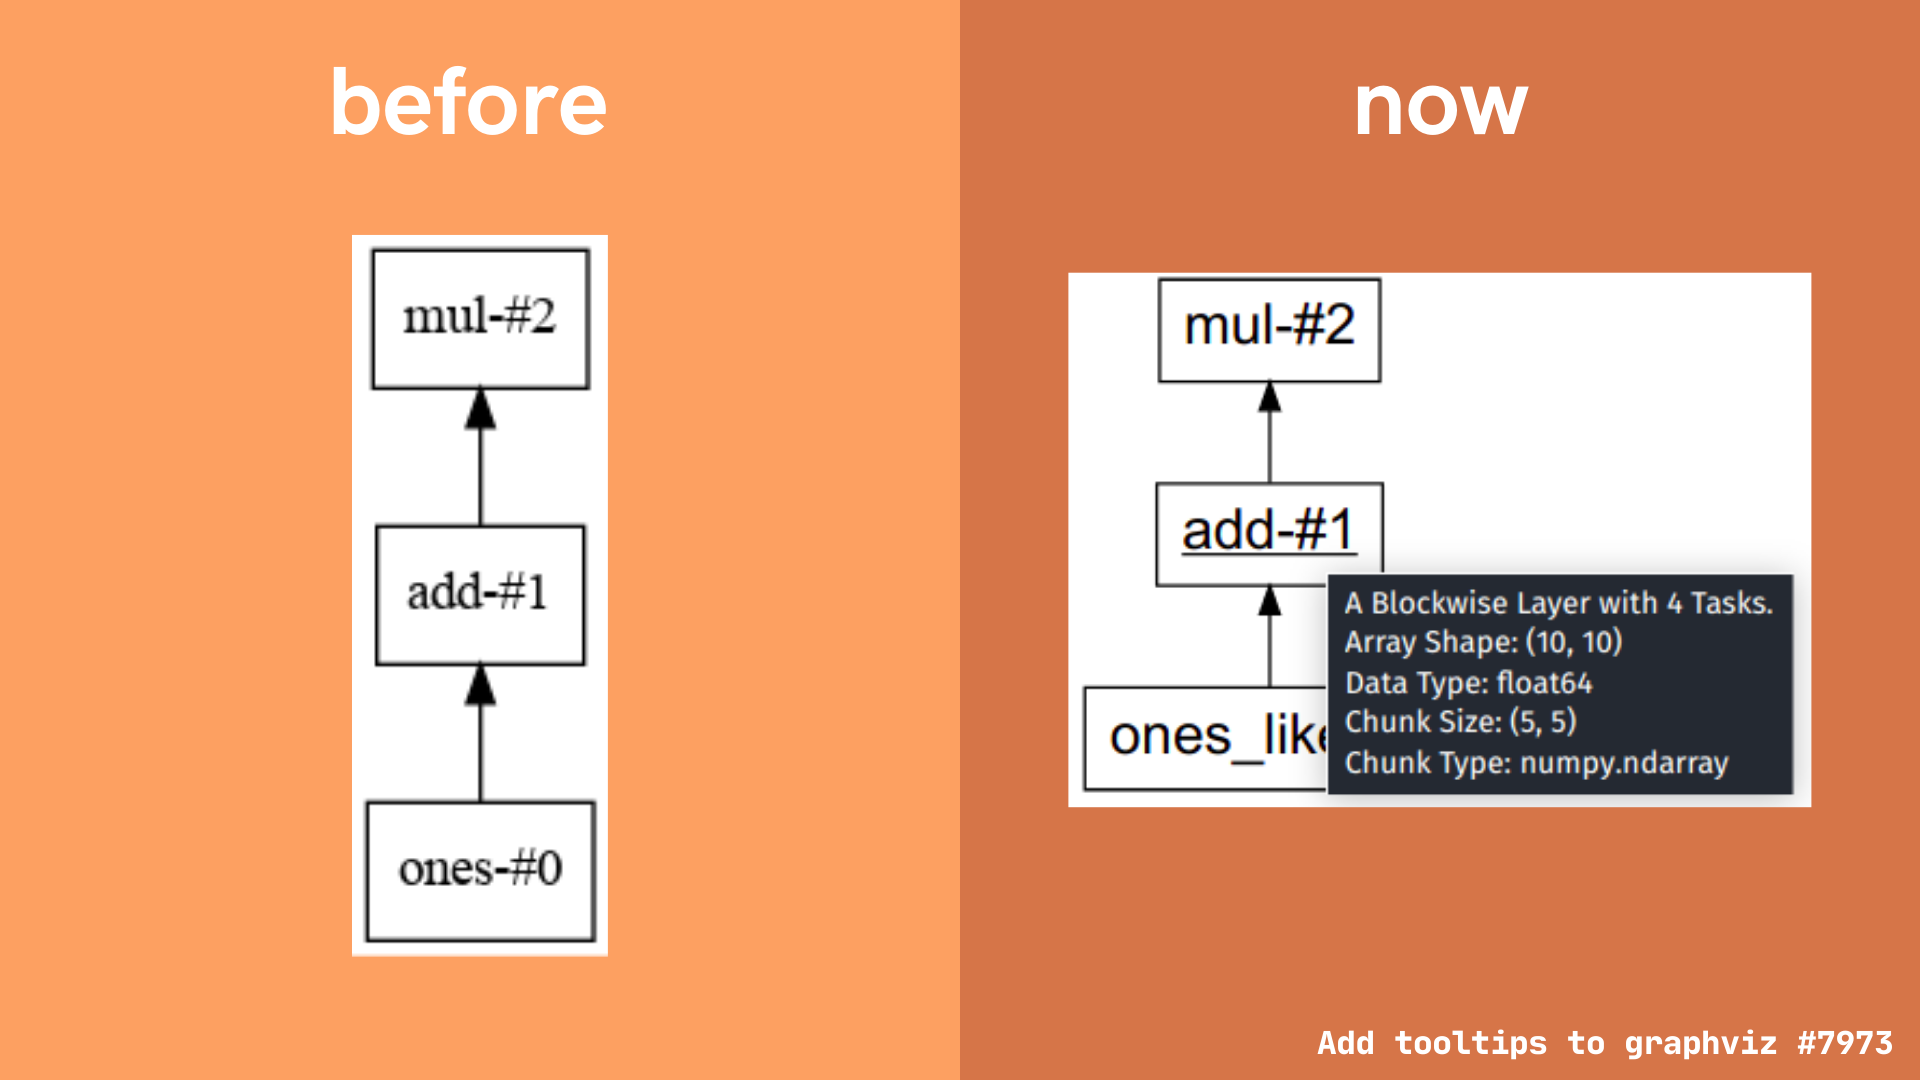
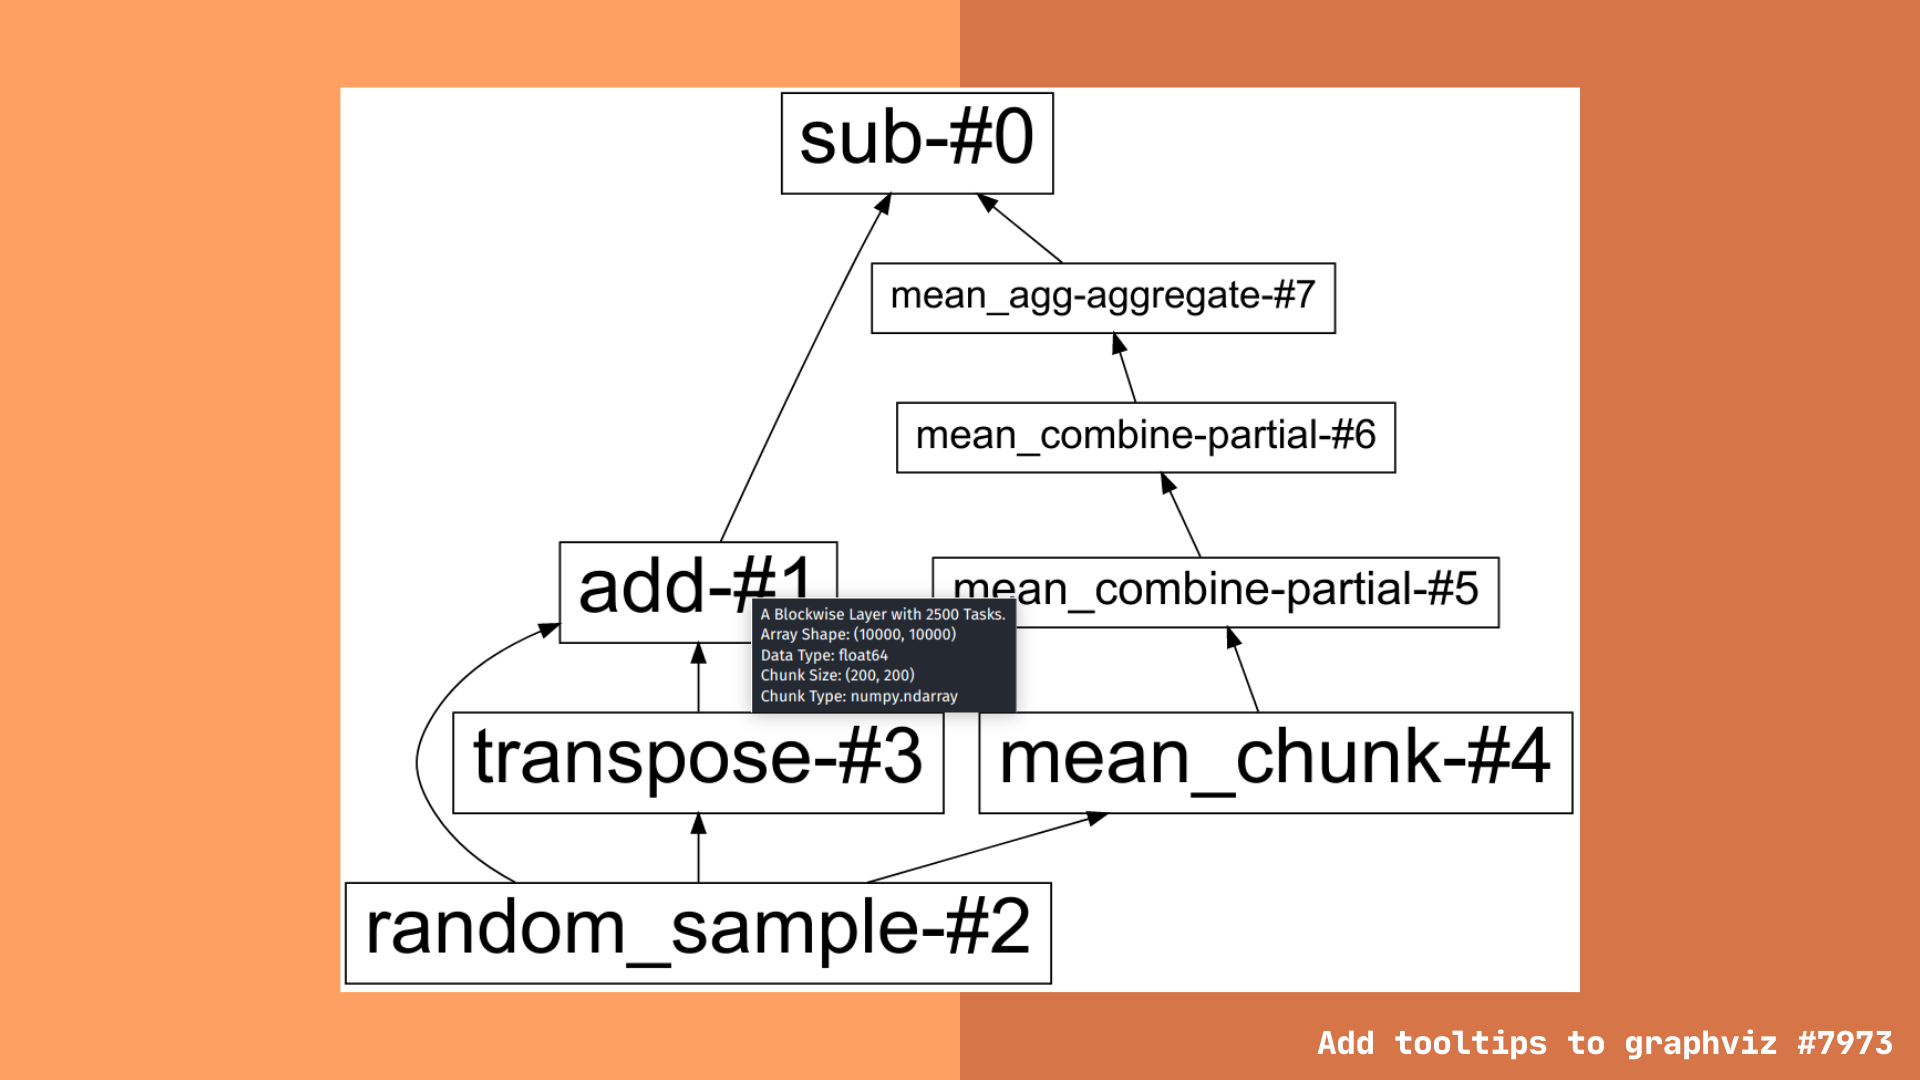
added images and updated test code

diff --git a/_posts/2021-08-23-gsoc-2021-project.md b/_posts/2021-08-23-gsoc-2021-project.md
@@ -14,18 +14,18 @@ Here's an update on new features related to visualizing Dask graphs and HTML rep
 ## Contents
 
 - [Visualizing Dask graphs](#visualizing-dask-graphs)
-    - [Graphviz node size scaling](#graphviz-node-size-scaling)
-    - [New tooltips](#new-tooltips)
-    - [Color by layer type](#color-by-layer-type)
-    - [Bugfix in visualize method](#bugfix-in-visualize-method)
+  - [Graphviz node size scaling](#graphviz-node-size-scaling)
+  - [New tooltips](#new-tooltips)
+  - [Color by layer type](#color-by-layer-type)
+  - [Bugfix in visualize method](#bugfix-in-visualize-method)
 - [HTML Representations](#html-representations)
-    - [Array images in HTML repr for high level graphs](#array-images-in-html-repr-for-high-level-graphs)
-    - [New HTML repr for ProcessInterface class](#new-html-repr-for-processinterface-class)
-    - [New HTML repr for Security class](#new-html-repr-for-security-class)
+  - [Array images in HTML repr for high level graphs](#array-images-in-html-repr-for-high-level-graphs)
+  - [New HTML repr for ProcessInterface class](#new-html-repr-for-processinterface-class)
+  - [New HTML repr for Security class](#new-html-repr-for-security-class)
 
 ## Visualizing Dask graphs
 
-There are several new features involving Dask graph visualization. Freyam worked on making them more illustrative, engaging, and informative. The Graphviz library boasts a great set of attributes which can be modifified to create a more visually appealing output. 
+There are several new features involving Dask graph visualization. Freyam worked on making them more illustrative, engaging, and informative. The Graphviz library boasts a great set of attributes which can be modifified to create a more visually appealing output.
 
 These features primarily improve the Dask high level graph visualizations. Both low level and high level Dask graphs can be accessed with very similar methods:
 
@@ -53,7 +53,7 @@ result.dask.visualize()  # Dask high level graph
 
 Note: this change only affects the graphviz output for Dask high level graphs. Low level graphs are left unchanged.
 
-Reference: [Pull request #7869 by Freyam Mehta *"Add node size scaling to the Graphviz output for the high level graphs"*](https://github.com/dask/dask/pull/7869)
+Reference: [Pull request #7869 by Freyam Mehta _"Add node size scaling to the Graphviz output for the high level graphs"_](https://github.com/dask/dask/pull/7869)
 
 ### New tooltips
 
@@ -64,21 +64,23 @@ Dask high level graphs now include hover tooltips to provide a brief summary of 
 Tooltips provide information such as the layer type and number of tasks associated with it. There is additional information provided for specific dask collections, like dask arrays and dataframes.
 
 Dask array tooltip information additionally includes:
-* Array shape
-* Chunk size
-* Chunk type (eg: are the array chunks numpy, cupy, sparse, etc.)
-* Data type (eg: are the array values float, integer, boolean, etc.)
+
+- Array shape
+- Chunk size
+- Chunk type (eg: are the array chunks numpy, cupy, sparse, etc.)
+- Data type (eg: are the array values float, integer, boolean, etc.)
 
 Dask dataframe tooltip information additionally includes:
-* Number of partitions
-* Dataframe type
-* Dataframe columns
+
+- Number of partitions
+- Dataframe type
+- Dataframe columns
 
 Users have asked for a less overwhelming view into the dask task graph. We hope the high level graph view coupled with more detailed tooltip information can provide this middle ground, with enough information to be useful, but not so much as to become overwhelming (like the low level task graphs for large computations).
 
 Note: This feature is available for SVG output. Other image formats, like `.png`, etc. do not support tooltips.
 
-Reference: [Pull request #7973 by Freyam Mehta *"Add tooltips to graphviz"*](https://github.com/dask/dask/pull/7973)
+Reference: [Pull request #7973 by Freyam Mehta _"Add tooltips to graphviz"_](https://github.com/dask/dask/pull/7973)
 
 ### Color by layer type
 
@@ -86,21 +88,28 @@ There is also a new feature enabling users to color code a high level graph acco
 
 While there are no hard and fast rules about what makes a Dask computation efficient, there are some general guidelines:
 
-* Dataframe shuffles are particularly expensive operations. You can [read more about this here](https://docs.dask.org/en/latest/dataframe-best-practices.html#avoid-full-data-shuffling).
-* Reading and writing data to/from disk can be a limiting factor. (Similarly, you want to avoid Dask spilling data to disk wherever possible - monitor the worker memory plot on the dask dashboard if you suspect this may be happening).
-* Blockwise layers are generally efficient for computation.
+- Dataframe shuffles are particularly expensive operations. You can [read more about this here](https://docs.dask.org/en/latest/dataframe-best-practices.html#avoid-full-data-shuffling).
+- Reading and writing data to/from disk can be a limiting factor. (Similarly, you want to avoid Dask spilling data to disk wherever possible - monitor the worker memory plot on the dask dashboard if you suspect this may be happening).
+- Blockwise layers are generally efficient for computation.
 
 See the [Dask best pracices](https://docs.dask.org/en/latest/best-practices.html) pages for more information on creating more efficient Dask computations.
 
 Example:
 
 ```python
-# code
+import dask
+import dask.dataframe as dd
+
+df = dask.datasets.timeseries()
+df2 = df[df.y > 0]
+df3 = df2.groupby('name').x.std()
+
+df3.dask.visualize(color="layer_type") # Dask high level graph with colored nodes by layer type
 ```
 
 <img src="/images/gsoc21/7974.png" alt="Example: Dask graph colored by layer type, pull request #7974" height=414 width=736>
 
-Reference: [Pull request #7974 by Freyam Mehta *"Add colors to represent high level layer types"*](https://github.com/dask/dask/pull/7974)
+Reference: [Pull request #7974 by Freyam Mehta _"Add colors to represent high level layer types"_](https://github.com/dask/dask/pull/7974)
 
 ### Bugfix in visualize method
 
@@ -116,7 +125,7 @@ array = da.arange(10)
 dask.visualize(array, filename=None)  # success
 ```
 
-Reference: [Pull request #7740 by Freyam Mehta *"Fixing calling .visualize() with filename=None"*](https://github.com/dask/dask/pull/7740)
+Reference: [Pull request #7740 by Freyam Mehta _"Fixing calling .visualize() with filename=None"_](https://github.com/dask/dask/pull/7740)
 
 ## HTML representations
 
@@ -145,7 +154,7 @@ array.dask  # shows the HTML representation in Jupyter
 
 <img src="/images/gsoc21/7886.png" alt="Example: Array images now included in HTML representation of Dask high level graphs, pull request #7886" height=414 width=736>
 
-Reference: [Pull request #7886 by Freyam Mehta *"Add dask.array SVG to the HTML Repr"*](https://github.com/dask/dask/pull/7886)
+Reference: [Pull request #7886 by Freyam Mehta _"Add dask.array SVG to the HTML Repr"_](https://github.com/dask/dask/pull/7886)
 
 ### New HTML repr for ProcessInterface class
 
@@ -154,9 +163,10 @@ A new HTML representation has been created for the `ProcessInterface` class in [
 The HTML representation displays the status, address, and external address of the process.
 
 There are three possible status options:
-* Process created, not yet running (blue icon)
-* Process is running (green icon)
-* Process closed (orange icon)
+
+- Process created, not yet running (blue icon)
+- Process is running (green icon)
+- Process closed (orange icon)
 
 Example:
 
@@ -165,30 +175,32 @@ from dask.distributed import LocalCluster, Client, SSHCluster
 
 cluster = SSHCluster(["127.0.0.1", "127.0.0.1", "127.0.0.1"])
 cluster.scheduler  # HTML representation for the SSH scheduler, shown in Jupyter
+cluster.workers  # dict of all the workers
 # or
 cluster.workers[0]  # HTML representation for the first SSH worker in the cluster
 ```
 
-<img src="/images/gsoc21/5181.png" alt="Example: New HTML representation for distributed ProcessInterface class, pull request #5181" height=414 width=736>
+<img src="/images/gsoc21/5181-2.png" alt="Example: New HTML representation for distributed ProcessInterface class, pull request #5181" height=414 width=736>
 
-Reference: [Pull request #5181 by Freyam Mehta *"Add HTML Repr for ProcessInterface Class and all its subclasses"*](https://github.com/dask/distributed/pull/5181)
+<img src="/images/gsoc21/5181-1.png" alt="Example: New HTML representation for distributed ProcessInterface class, pull request #5181" height=414 width=736>
+
+Reference: [Pull request #5181 by Freyam Mehta _"Add HTML Repr for ProcessInterface Class and all its subclasses"_](https://github.com/dask/distributed/pull/5181)
 
 ### New HTML repr for Security class
 
 Pull request [#5178](https://github.com/dask/distributed/pull/5178) added a new HTML representation for the `Security` class in the [dask distributed library](https://github.com/dask/distributed/). In addition, the text representation has also been updated to reflect the same information shown in the HTML representation.
 
-
 The `Security` HTML representation shows:
-* Whether encryption is required
-* Whether the object instance was created using `Security.temporary()` or `Security(**paths_to_keys)`.
-    * For temporary security objects, keys are generated dynamically and the only copy is kept in memory.
-    * For security objects created using keys stored on disk, the HTML representation will show the full filepath to the relevant security certificates on disk.
 
+- Whether encryption is required
+- Whether the object instance was created using `Security.temporary()` or `Security(**paths_to_keys)`.
+  - For temporary security objects, keys are generated dynamically and the only copy is kept in memory.
+  - For security objects created using keys stored on disk, the HTML representation will show the full filepath to the relevant security certificates on disk.
 
 Example: temporary security object
 
 ```python
-from dsak.distributed import Security
+from dask.distributed import Security
 
 s = Security.temporary()
 s  # shows the HTML representation in Jupyter
@@ -197,12 +209,14 @@ s  # shows the HTML representation in Jupyter
 Example: security object using certificates saved to disk
 
 ```python
-from dsak.distributed import Security
+from dask.distributed import Security
 
 s = Security(require_encryption=True, tls_ca_file="ca.pem", tls_scheduler_cert="scert.pem")
 s  # shows the HTML representation in Jupyter
 ```
 
-<img src="/images/gsoc21/5178.png" alt="Example: New HTML representation for distributed Security class, pull request #5178" height=414 width=736>
+<img src="/images/gsoc21/5178-1.png" alt="Example: New text representation for distributed Security class, pull request #5178" height=414 width=736>
 
-Reference: [Pull request #5178 by Freyam Mehta *"Add HTML Repr for Security Class"*](https://github.com/dask/distributed/pull/5178/)
+<img src="/images/gsoc21/5178-2.png" alt="Example: New HTML representation for distributed Security class, pull request #5178" height=414 width=736>
+
+Reference: [Pull request #5178 by Freyam Mehta _"Add HTML Repr for Security Class"_](https://github.com/dask/distributed/pull/5178/)
